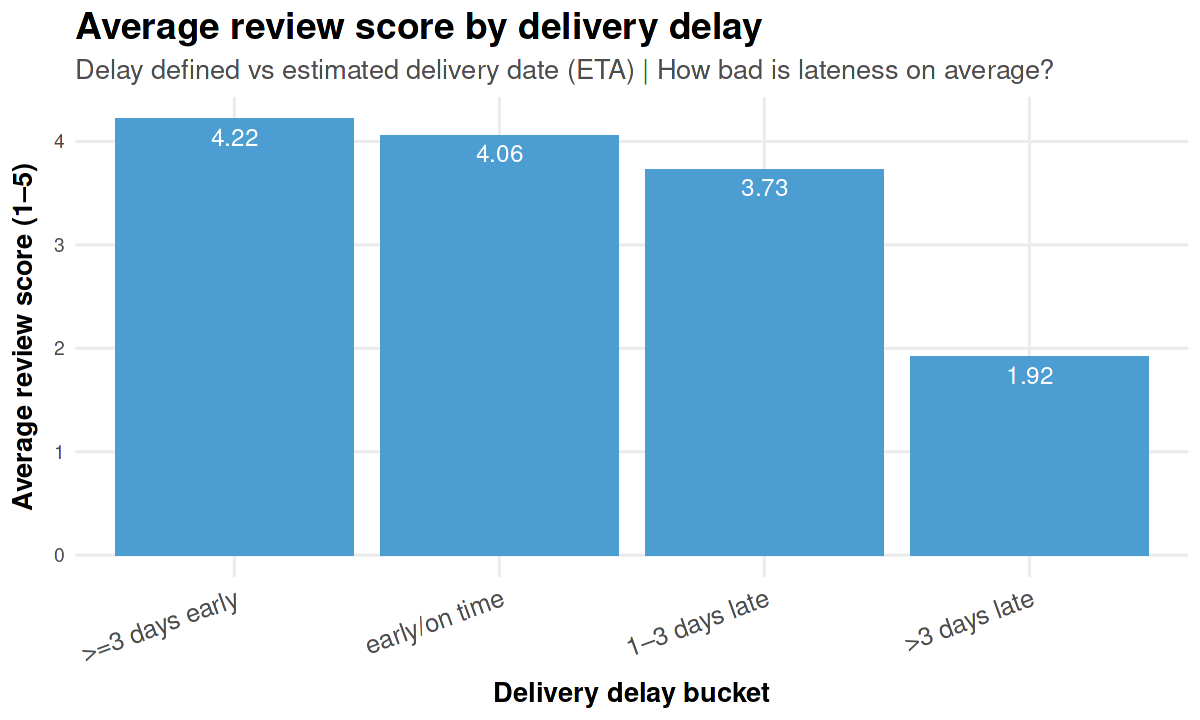
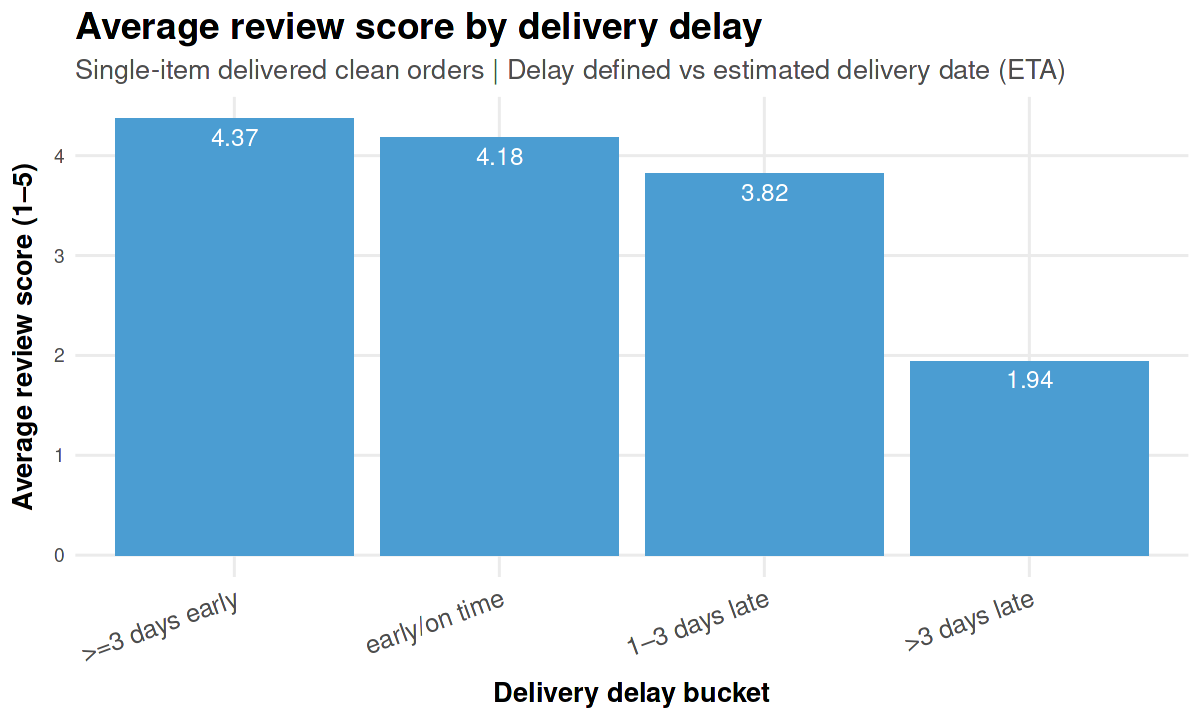
business question 15 update + viz

diff --git a/business_questions/03_operations_and_logistics/q15_operational_drivers_of_reviews/q15_README.md b/business_questions/03_operations_and_logistics/q15_operational_drivers_of_reviews/q15_README.md
@@ -1,82 +1,67 @@
-**Operations & Logistics → q15 Operational Drivers of Satisfaction & Revenue**
-
 # Business Question 15 — Operational Drivers of Customer Satisfaction
 
 ## Question
 
-**Which operational factors (delivery delays, freight cost, payment type and seller performance) have the strongest impact on review scores and revenue, and where are the biggest opportunities to improve margin without hurting satisfaction?**
+**Which operational factors (delivery delays, freight cost, and seller processing performance) have the strongest impact on customer satisfaction, and where should Olist focus operational improvements?**
 
 ---
 
 ## Why This Matters
 
-This analysis identifies the **true operational levers of customer satisfaction** on the Olist platform.
+This analysis isolates the **real drivers of customer dissatisfaction** on the Olist platform.
 
-By isolating which operational factors actually influence review scores, Olist can prioritize logistics investments where they matter most while identifying areas where margins can be safely improved. For example, if customers are insensitive to freight costs but highly sensitive to delivery delays, the platform could increase freight margins on reliable routes without harming customer satisfaction.
+Instead of optimizing everything (freight, payments, logistics, sellers), the goal is to identify:
 
-Additionally, this analysis enables the development of a **targeted seller risk framework**, allowing Olist to intervene with the small subset of sellers responsible for a disproportionate share of negative experiences.
+- what actually hurts customer experience
+- what does NOT matter as much as expected
+- where targeted interventions will have the biggest impact
+
+This allows Olist to:
+- prioritize **delivery reliability over cost reductions**
+- identify **high-risk sellers before issues reach customers**
+- avoid wasting effort on low-impact levers (e.g. payment structure)
 
 ---
 
 ## Analytical Approach
 
-To quantify the operational drivers of customer satisfaction, the analysis combined hypothesis testing, seller risk scoring, and regression modeling.
+The analysis combines:
+
+### 1. Order-level behavioral analysis
+
+Customer satisfaction was evaluated against:
+
+- delivery delay vs ETA  
+- freight cost as % of order value  
+- payment structure  
+
+This isolates how customers react to **their own order experience**.
 
 ---
 
-### Hypothesis Testing
+### 2. Seller processing analysis
 
-The first stage tested whether **high freight costs reduce customer tolerance for delivery delays**.
+Instead of using final delivery delay as a seller metric, the analysis focuses on:
 
-Orders were segmented by:
+- **approval-to-carrier time** (seller-controlled stage)
+- **slow-processing rate** (share of orders above platform P90 threshold)
+- **category-adjusted processing gap** (seller vs category baseline)
 
-- delay duration
-- freight cost as a percentage of order value
-
-This allowed comparison of review outcomes across different cost–delay combinations.
-
----
-
-### Seller Risk Framework
-
-A **volume-weighted composite risk score** was constructed to identify sellers creating disproportionate operational risk.
-
-The score incorporates four components:
-
-| Risk Component | Weight |
-|---|---|
-| Lateness frequency | 25% |
-| Delay severity | 35% |
-| Customer satisfaction | 25% |
-| Complaint rate | 15% |
-
-Based on this score, sellers were classified into five operational tiers:
-
-- Critical  
-- High  
-- Medium  
-- Low  
-- Minimal  
+This ensures sellers are evaluated fairly within their operational context.
 
 ---
 
-### Predictive Modeling
+### 3. Regression modeling
 
-Two regression models were built to isolate the independent effect of each operational variable.
+Two models were used:
 
-**Model 1 — Order-Level**
+#### Model 1 — Order-level experience
 
-Evaluates how specific order conditions affect review scores:
+Measures how the **actual delivery experience** affects review scores.
 
-- delivery delay
-- freight cost ratio
-- payment installments
+#### Model 2 — Seller processing risk
 
----
-
-**Model 2A — Seller-Level**
-
-Evaluates whether a seller's **historical reputation and consistency** influence customer satisfaction.
+Measures whether sellers with **slower-than-category processing patterns** tend to receive worse reviews.
 
 ---
 
@@ -86,88 +71,140 @@ Evaluates whether a seller's **historical reputation and consistency** influence
 <img src="q15_dataviz/avg_review_delay.png" width="600">
 </p>
 
-*Figure 15.1 — Average Review Score by Delivery Delay, showing the rapid deterioration of satisfaction once an order passes its ETA.*
+*Figure 15.1 — Average review score by delivery delay, showing how satisfaction changes as orders move from early/on-time to late.*
 
 <p align="center">
 <img src="q15_dataviz/low_review_share_delay.png" width="600">
 </p>
 
-*Figure 15.2 — Share of Low Reviews (1–2) by Delivery Delay, illustrating that over 70% of customers leave a negative review when an order is more than 3 days late.*
+*Figure 15.2 — Share of low reviews by delivery delay, showing the sharp increase in 1–2 star reviews for severely late orders.*
 
 <p align="center">
 <img src="q15_dataviz/delay_freight_interaction.png" width="800">
 </p>
 
-*Figure 15.3 — Interaction between delivery delays and freight cost, showing that customer dissatisfaction increases sharply with delay regardless of shipping price.*
+*Figure 15.3 — Low-review share by delivery delay and freight burden, testing whether freight cost changes customer tolerance for lateness.*
+
+<p align="center">
+<img src="q15_dataviz/category_processing_risk.png" width="800">
+</p>
+
+*Figure 15.4 — Category view of slow-processing seller risk, showing which product categories appear among sellers that are both slow and associated with weak satisfaction.*
+
+<p align="center">
+<img src="q15_dataviz/seller_processing_risk.png" width="800">
+</p>
+
+*Figure 15.5 — Seller-level processing risk, identifying exact sellers that are slower than their category baseline and linked to higher low-review shares.*
 
 <p align="center">
 <img src="q15_dataviz/regression_coefficients.png" width="800">
 </p>
 
-*Figure 15.4 — Regression coefficients illustrating that delivery delay has a significantly stronger impact on review scores than freight cost or seller-level factors.*
-
-
----
-
-## Analytical Tables
-
-### Table 15.1 — Seller Risk Distribution
-
-This table reveals that operational risk is highly concentrated among a small subset of sellers.
-
-| Risk Tier | Sellers | Total Orders | Avg Risk Score | Revenue at Risk (BRL) |
-|---|---|---|---|---|
-| Critical | 5 | 158 | 97.3 | 46,700 |
-| High | 32 | 333 | 84.9 | 35,076 |
-| Medium | 141 | 7,052 | 49.4 | 757,959 |
-| Low | 617 | 57,724 | 27.9 | 2,029,383 |
-| Minimal | 1,069 | 42,713 | 9.7 | 779,114 |
-
-Although most sellers operate reliably, a **very small group generates a disproportionate share of operational risk**.
-
----
-
-### Table 15.2 — Order-Level Regression Model
-
-| Variable | Coefficient (β) | Significance |
-|---|---|---|
-| Intercept | 3.86 | *** |
-| Delay (days late) | -0.031 | *** |
-| Installments (+1) | -0.034 | *** |
-| Freight cost % | -0.002 | *** |
-
-This confirms that **delivery delay is the strongest driver of dissatisfaction**.
+*Figure 15.6 — Regression coefficient comparison, showing how order-level delay and seller-side processing risk relate to review scores.*
 
 ---
 
 ## Key Findings
 
-* **Delivery Delay is the Dominant Driver:** Delivery delay has the largest statistical impact on review scores.  
-Each additional day of delay reduces the expected rating by approximately **0.03 points**.
+### Delivery delay dominates everything
 
+Delivery delay is the strongest and most consistent driver of dissatisfaction.
 
-* **Freight Cost Has Minimal Impact:** The hypothesis that lower freight costs soften the impact of delays was rejected.  
-The proportion of negative reviews remains roughly **73% for late deliveries** regardless of whether shipping costs are low or high.
+- each additional day late reduces review score (~ -0.037)
+- severe delays lead to **massive spikes in low reviews (~70%+)**
 
-* **Individual Experience Outweighs Seller Reputation:** The order-level regression explains **3.5× more variance** than the seller-level model.
-This indicates that customers react primarily to their **specific order experience**, rather than to a seller’s historical track record.
+Customers clearly react to **what happened to their order**, not averages or expectations.
 
-* **Operational Risk is Highly Concentrated:** Approximately **90% of sellers operate reliably**.  
-However, just **37 sellers (~2% of the base)** account for **22% of total satisfaction risk**, making targeted interventions highly effective.
+---
+
+### Freight cost does NOT soften delay impact
+
+The initial hypothesis was wrong.
+
+- expensive shipping does NOT make customers less tolerant
+- cheap shipping does NOT “save” a late delivery
+
+Once an order is late, the outcome is almost the same regardless of freight cost.
+
+---
+
+### Seller processing matters — but less than direct experience
+
+Seller-side processing risk is real:
+
+- slower-than-category sellers get worse reviews
+- high slow-processing rates correlate with dissatisfaction
+
+But:
+
+- effect size is smaller
+- model explains <1% of variation
+
+Meaning:
+
+> seller performance is a **risk signal**, not the main driver of satisfaction
+
+---
+
+### Category context is critical
+
+Some categories are naturally slower.
+
+So the correct comparison is:
+
+> seller vs category baseline, not seller vs platform average
+
+This prevents misclassifying sellers in inherently slower categories (e.g. furniture).
+
+---
+
+### Satisfaction is driven by the individual experience
+
+The strongest pattern across all analysis:
+
+> customers judge the platform based on their own order, not seller reputation
 
 ---
 
 ## Insight
 
-➜ The most important operational improvement opportunity for Olist lies in **reducing delivery delays rather than reducing freight prices**.
+➜ The biggest operational lever is **reducing delivery delays**, not optimizing pricing or payment structure.
 
-➜ Because customers show relatively low sensitivity to shipping cost when deliveries are on time, Olist could increase freight margins on reliable routes and use the additional revenue to strengthen logistics infrastructure where delays occur more frequently.
+➜ Seller processing metrics are valuable as an **early-warning system**, helping identify sellers likely to create future delivery problems.
 
-➜ Furthermore, the analysis suggests that **real-time operational performance matters more than historical seller reputation**. Customers judge the platform primarily based on the outcome of their current order.
+➜ Category-adjusted benchmarks are essential for fair performance evaluation.
+
+---
+
+## Executive Summary
+
+**Core finding:**
+
+> Customer satisfaction is driven primarily by whether the order arrives on time.
+
+Everything else is secondary.
+
+- Delivery delay has the strongest and most visible impact  
+- Freight cost and payment structure have minimal influence  
+- Seller processing performance matters, but mainly as a predictive signal  
+
+**What this means for Olist:**
+
+1. **Fix delays first** — especially severe delays  
+2. **Monitor seller processing early** — before delays reach customers  
+3. **Compare sellers within category context**, not globally  
+4. **Stop over-optimizing freight and payment mechanics** — they do not move satisfaction  
+
+In simple terms:
+
+> Customers do not care how the system works —  
+> they care whether their order arrives when expected.
 
 ---
 
 ## Next Question
 
-➡ **Next:** Having identified the operational drivers of satisfaction under normal conditions, the next step is to examine whether **delivery delays become more damaging during peak seasonal demand periods**.  
+➡ **Next:** Do delays become more damaging during peak periods?
+
 [q16 Holiday Delay Impact](../q16_holiday_delay_impact/q16_README.md)
